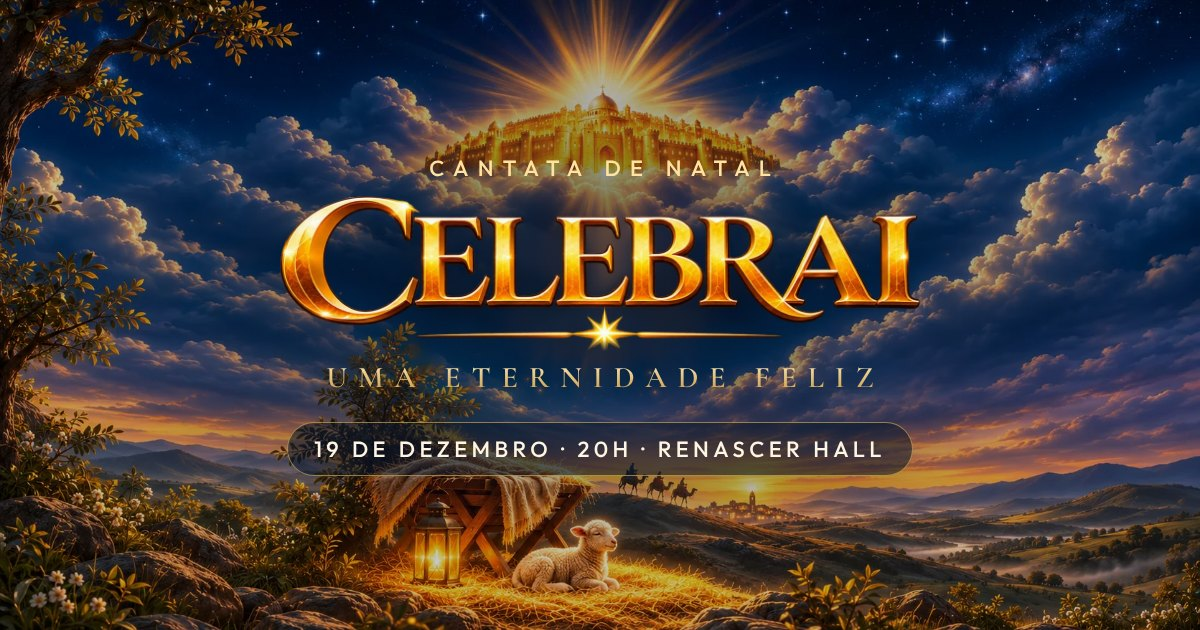
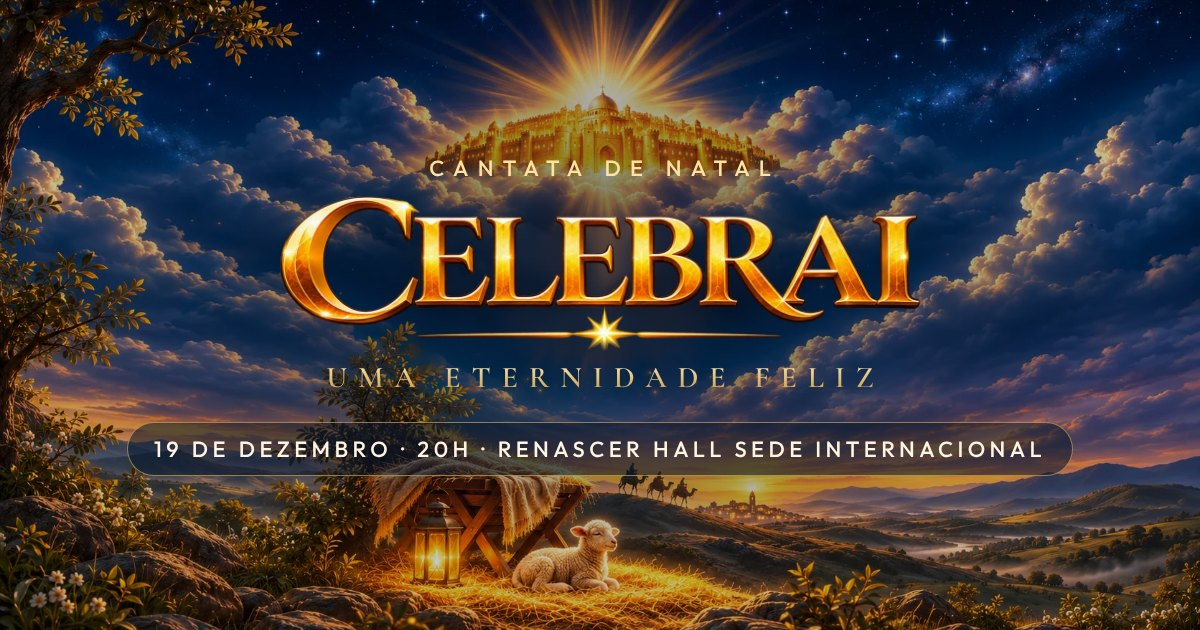
Local: Renascer Hall Sede Internacional em todo o site; Classificação livre na arte do WhatsApp
Claude-Session: https://claude.ai/code/session_017LpdMHjpd3UnHz5CD1Khc8

Changed region(s): [[0.0925, 0.6635, 0.8942, 0.754]]

diff --git a/index.html b/index.html
@@ -4,14 +4,14 @@
 <meta charset="utf-8">
 <meta name="viewport" content="width=device-width, initial-scale=1">
 <title>CELEBRAI · Cantata de Natal 2026 · Uma Eternidade Feliz</title>
-<meta name="description" content="Cantata de Natal CELEBRAI — Uma Eternidade Feliz. Sábado, 19 de dezembro de 2026, às 20h, no Renascer Hall (Sede Internacional, Mooca, São Paulo). Classificação livre.">
+<meta name="description" content="Cantata de Natal CELEBRAI — Uma Eternidade Feliz. Sábado, 19 de dezembro de 2026, às 20h, no Renascer Hall Sede Internacional (Mooca, São Paulo). Classificação livre.">
 <meta name="theme-color" content="#07182D">
 <link rel="icon" type="image/png" sizes="48x48" href="img/icone-48.png">
 <link rel="apple-touch-icon" href="img/icone-180.png">
 <meta property="og:type" content="website">
 <meta property="og:locale" content="pt_BR">
 <meta property="og:title" content="CELEBRAI · Cantata de Natal 2026">
-<meta property="og:description" content="Uma Eternidade Feliz. 19 de dezembro, 20h, Renascer Hall (Mooca, SP). Você é nosso convidado.">
+<meta property="og:description" content="Uma Eternidade Feliz. 19 de dezembro, 20h, Renascer Hall Sede Internacional (Mooca, SP). Você é nosso convidado.">
 <meta property="og:url" content="https://site-proj.github.io/celebrai/">
 <meta property="og:image" content="https://site-proj.github.io/celebrai/img/og.jpg">
 <meta property="og:image:width" content="1200">
@@ -1026,8 +1026,8 @@ const EVENTO = {
   titulo: 'CELEBRAI — Cantata de Natal',
   inicio: '2026-12-19T20:00:00-03:00',
   duracaoMin: 120,                        // duração estimada — ajuste se souber
-  local: 'Renascer Hall — Sede Internacional, Mooca, São Paulo - SP',
-  localCurto: 'Renascer Hall · Mooca, SP',
+  local: 'Renascer Hall Sede Internacional, Mooca, São Paulo - SP',
+  localCurto: 'Renascer Hall Sede Internacional · Mooca, SP',
   mapa: 'Renascer Hall Sede Internacional Mooca São Paulo',
   classificacao: 'Livre',
   descricao: 'Cantata de Natal 2026 — CELEBRAI: Uma Eternidade Feliz. Teatro, música, dança e coral.',
@@ -1228,11 +1228,13 @@ function drawCard(){
   c.fillStyle = '#FFF5E3'; c.font = 'italic 500 58px "Cormorant Garamond", serif'; c.fillText(n ? 'você é nosso convidado' : 'Você é nosso convidado', 540, y);
   // data e local num selo
   const dt = quando.toUpperCase().replace('-FEIRA',''), lc = EVENTO.localCurto || EVENTO.local;
-  c.font = '600 36px Outfit, sans-serif'; const bw = Math.max(c.measureText(dt).width, 520) + 90, by = y + 50;
+  c.font = '400 30px Outfit, sans-serif'; const lw = c.measureText(lc).width;
+  c.font = '600 36px Outfit, sans-serif'; const bw = Math.max(c.measureText(dt).width, lw, 520) + 90, by = y + 50;
   c.fillStyle = 'rgba(7,24,45,.72)'; c.strokeStyle = 'rgba(232,186,89,.65)'; c.lineWidth = 2.5;
   c.beginPath(); c.roundRect ? c.roundRect((W-bw)/2, by, bw, 150, 75) : c.rect((W-bw)/2, by, bw, 150); c.fill(); c.stroke();
   c.fillStyle = '#E8BA59'; c.fillText(dt, 540, by + 64);
-  c.fillStyle = '#FFF5E3'; c.font = '400 30px Outfit, sans-serif'; c.fillText(lc + ' · Livre', 540, by + 112);
+  c.fillStyle = '#FFF5E3'; c.font = '400 30px Outfit, sans-serif'; c.fillText(lc, 540, by + 112);
+  c.fillStyle = 'rgba(255,245,227,.7)'; c.font = '400 26px Outfit, sans-serif'; c.fillText('Classificação livre', 540, by + 196);
   // endereço do site (se o WhatsApp descartar o texto, o link continua na arte)
   c.fillStyle = 'rgba(7,24,45,.75)'; c.fillRect(0, H - 92, W, 92);
   c.fillStyle = '#FFE3A1'; c.font = '500 30px Outfit, sans-serif'; c.fillText('Abra o seu convite: ' + siteCurto, 540, H - 36);
